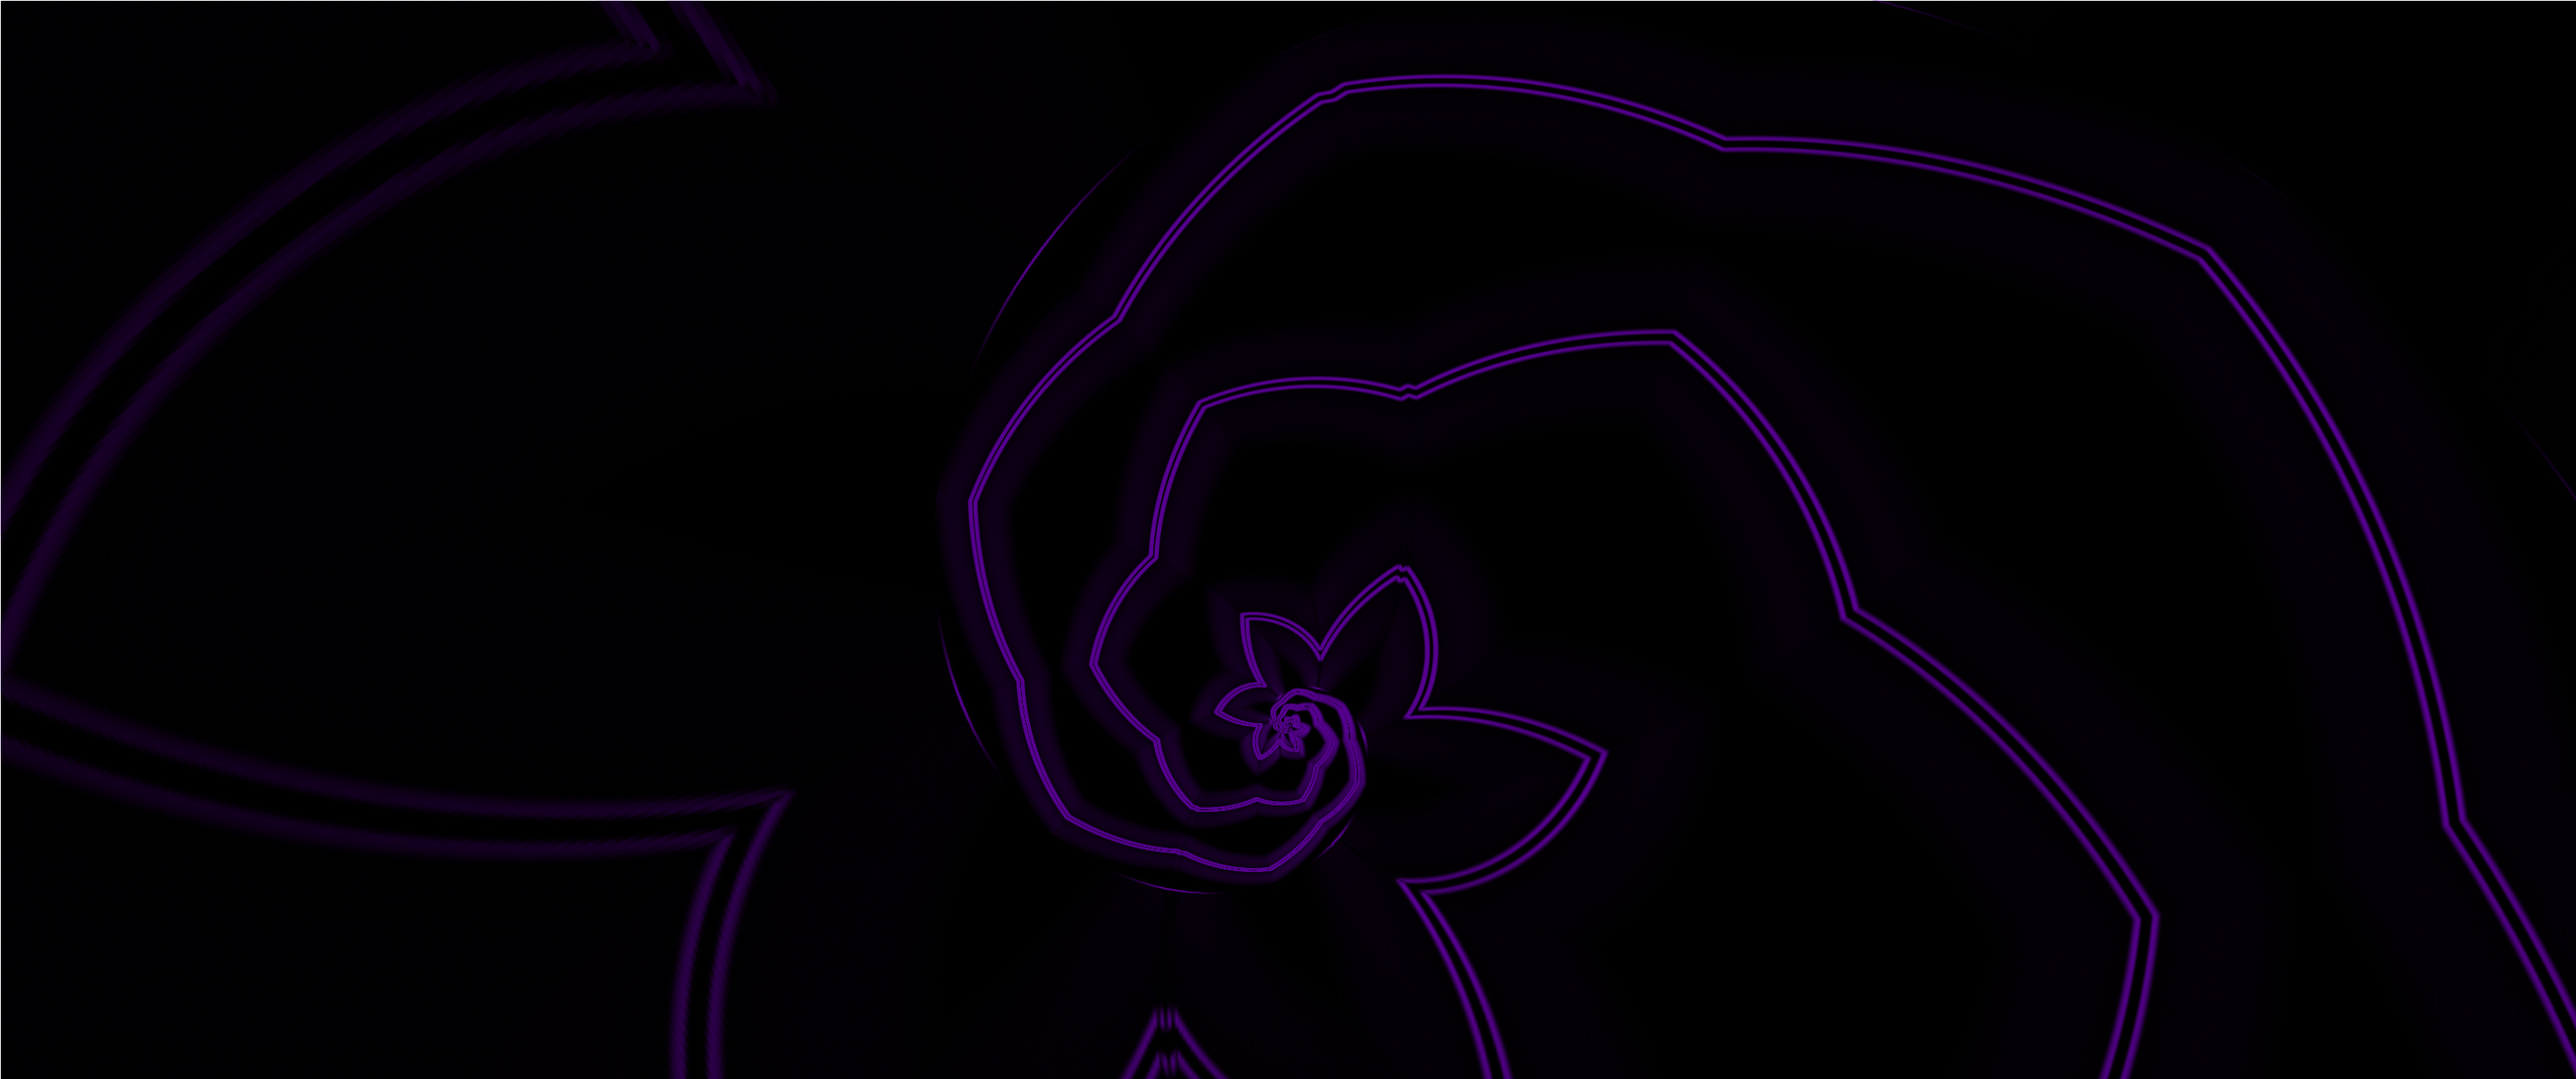
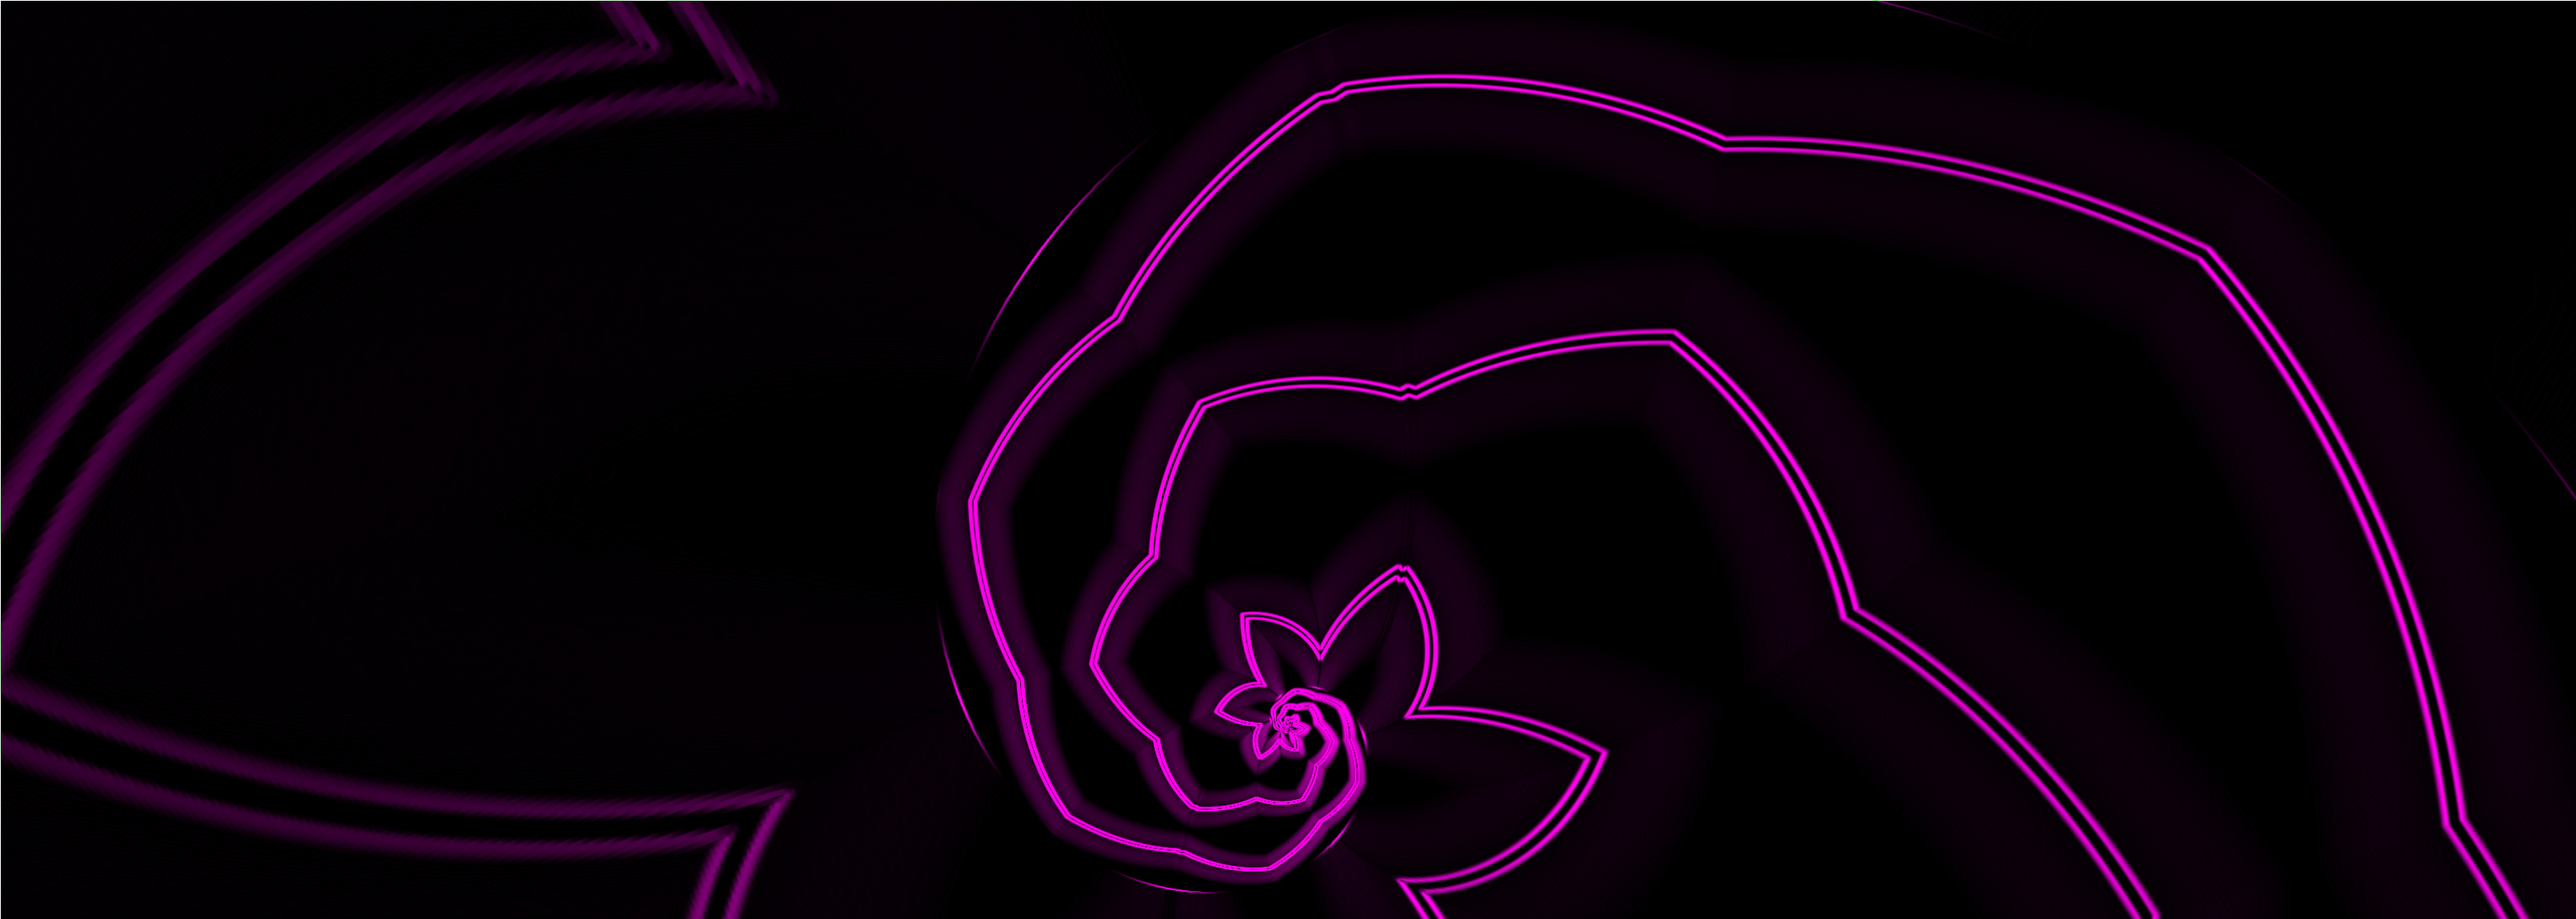
Add a picture to the blog, change some styling

Changed region(s): [[0.3404, 0.0613, 1.0, 1.0], [0.0, 0.0, 0.3095, 1.0]]

diff --git a/nest/templates/article.html b/nest/templates/article.html
@@ -6,9 +6,9 @@
 
 {% block headerstyle %}
     {% if article.illustration %}
-    <div class="header-container" style="background: linear-gradient(rgba(0, 0, 0, 0.2), rgba(0, 0, 0, 0.2)), url('{{ SITEURL }}/images/{{ article.illustration }}'); background-position: center; background-size: cover;">
+    <div class="header-container" style="background: linear-gradient(rgba(0, 0, 0, 0), rgba(0, 0, 0, 0)), url('{{ SITEURL }}/images/{{ article.illustration }}'); background-position: center; background-size: cover;">
     {% elif NEST_HEADER_IMAGES %}
-    <div class="header-container" style="background: linear-gradient(rgba(0, 0, 0, 0.2), rgba(0, 0, 0, 0.2)), url('{{ SITEURL }}/images/{{ NEST_HEADER_IMAGES }}'); background-position: center; background-size: cover;">
+    <div class="header-container" style="background: linear-gradient(rgba(0, 0, 0, 0), rgba(0, 0, 0, 0)), url('{{ SITEURL }}/images/{{ NEST_HEADER_IMAGES }}'); background-position: center; background-size: cover;">
     {% else %}
     <div class="header-container gradient">
     {% endif %}

diff --git a/nest/templates/page.html b/nest/templates/page.html
@@ -5,9 +5,9 @@
 
 {% block headerstyle %}
     {% if page.illustration %}
-    <div class="header-container" style="background: linear-gradient(rgba(0, 0, 0, 0.2), rgba(0, 0, 0, 0.2)), url('{{ SITEURL }}/images/{{ page.illustration }}'); background-position: center; background-size: cover; ">
+    <div class="header-container" style="background: linear-gradient(rgba(0, 0, 0, 0), rgba(0, 0, 0, 0)), url('{{ SITEURL }}/images/{{ page.illustration }}'); background-position: center; background-size: cover; ">
     {% elif NEST_HEADER_IMAGES %}
-    <div class="header-container" style="background: linear-gradient(rgba(0, 0, 0, 0.2), rgba(0, 0, 0, 0.2)), url('{{ SITEURL }}/images/{{ NEST_HEADER_IMAGES }}'); background-position: center; background-size: cover;">
+    <div class="header-container" style="background: linear-gradient(rgba(0, 0, 0, 0), rgba(0, 0, 0, 0)), url('{{ SITEURL }}/images/{{ NEST_HEADER_IMAGES }}'); background-position: center; background-size: cover;">
     {% else %}
     <div class="header-container gradient">
     {% endif %}

diff --git a/nest/static/css/nest.css b/nest/static/css/nest.css
@@ -37,13 +37,13 @@ body {
 /* 009bff*/
 /* CE2323 */
 a, a:visited { 
-    color: #90f;
+    color: #9864cc;
     text-decoration: none; 
     transition: all 0.2s ease-out;
 }
 a:hover, a:active{ 
     text-decoration:underline; 
-    color:#90f; 
+    color:#9864cc; 
 /*    opacity: 0.8; */
 }
 
@@ -190,12 +190,13 @@ h4:after {
     margin-left:20px;
     text-transform: uppercase;
     transition: all 0.2s ease-out;
+    border: 1px solid transparent;
 }
 .header-nav .nav a:hover{
     color:#fff;
     font-weight:600;
     opacity: 1;
-    background-color: rgba(0,0,0,0.2);
+    border: 1px solid #fff;
 }
 .header-nav .nav .active{
     /*color:#fff;*/
@@ -214,6 +215,10 @@ h4:after {
 }
 .header-logo img {
     height: 70px;
+}
+
+.nav a, .header-content {
+    background: #000d;
 }
 
 /* Header */

diff --git a/nest/templates/archives.html b/nest/templates/archives.html
@@ -5,7 +5,7 @@
 
 {% block headerstyle %}
     {% if NEST_HEADER_IMAGES %}
-    <div class="header-container" style="background: linear-gradient(rgba(0, 0, 0, 0.2), rgba(0, 0, 0, 0.2)), url('{{ SITEURL }}/images/{{ NEST_HEADER_IMAGES }}'); background-position: center; background-size: cover;">
+    <div class="header-container" style="background: linear-gradient(rgba(0, 0, 0, 0), rgba(0, 0, 0, 0)), url('{{ SITEURL }}/images/{{ NEST_HEADER_IMAGES }}'); background-position: center; background-size: cover;">
     {% else %}
     <div class="header-container gradient">
     {% endif %}

diff --git a/nest/templates/author.html b/nest/templates/author.html
@@ -5,7 +5,7 @@
 
 {% block headerstyle %}
     {% if NEST_HEADER_IMAGES %}
-    <div class="header-container" style="background: linear-gradient(rgba(0, 0, 0, 0.2), rgba(0, 0, 0, 0.2)), url('{{ SITEURL }}/images/{{ NEST_HEADER_IMAGES }}'); background-position: center; background-size: cover;">
+    <div class="header-container" style="background: linear-gradient(rgba(0, 0, 0, 0), rgba(0, 0, 0, 0)), url('{{ SITEURL }}/images/{{ NEST_HEADER_IMAGES }}'); background-position: center; background-size: cover;">
     {% else %}
     <div class="header-container gradient">
     {% endif %}

diff --git a/nest/templates/authors.html b/nest/templates/authors.html
@@ -5,7 +5,7 @@
 
 {% block headerstyle %}
     {% if NEST_HEADER_IMAGES %}
-    <div class="header-container" style="background: linear-gradient(rgba(0, 0, 0, 0.2), rgba(0, 0, 0, 0.2)), url('{{ SITEURL }}/images/{{ NEST_HEADER_IMAGES }}'); background-position: center; background-size: cover;">
+    <div class="header-container" style="background: linear-gradient(rgba(0, 0, 0, 0), rgba(0, 0, 0, 0)), url('{{ SITEURL }}/images/{{ NEST_HEADER_IMAGES }}'); background-position: center; background-size: cover;">
     {% else %}
     <div class="header-container gradient">
     {% endif %}

diff --git a/nest/templates/categories.html b/nest/templates/categories.html
@@ -5,7 +5,7 @@
 
 {% block headerstyle %}
     {% if NEST_HEADER_IMAGES %}
-    <div class="header-container" style="background: linear-gradient(rgba(0, 0, 0, 0.2), rgba(0, 0, 0, 0.2)), url('{{ SITEURL }}/images/{{ NEST_HEADER_IMAGES }}'); background-position: center; background-size: cover;">
+    <div class="header-container" style="background: linear-gradient(rgba(0, 0, 0, 0), rgba(0, 0, 0, 0)), url('{{ SITEURL }}/images/{{ NEST_HEADER_IMAGES }}'); background-position: center; background-size: cover;">
     {% else %}
     <div class="header-container gradient">
     {% endif %}

diff --git a/nest/templates/category.html b/nest/templates/category.html
@@ -5,7 +5,7 @@
 
 {% block headerstyle %}
     {% if NEST_HEADER_IMAGES %}
-    <div class="header-container" style="background: linear-gradient(rgba(0, 0, 0, 0.2), rgba(0, 0, 0, 0.2)), url('{{ SITEURL }}/images/{{ NEST_HEADER_IMAGES }}'); background-position: center; background-size: cover;">
+    <div class="header-container" style="background: linear-gradient(rgba(0, 0, 0, 0), rgba(0, 0, 0, 0)), url('{{ SITEURL }}/images/{{ NEST_HEADER_IMAGES }}'); background-position: center; background-size: cover;">
     {% else %}
     <div class="header-container gradient">
     {% endif %}

diff --git a/nest/templates/index.html b/nest/templates/index.html
@@ -5,7 +5,7 @@
 
 {% block headerstyle %}
     {% if NEST_HEADER_IMAGES %}
-    <div class="header-container" style="background: linear-gradient(rgba(0, 0, 0, 0.2), rgba(0, 0, 0, 0.2)), url('{{ SITEURL }}/images/{{ NEST_HEADER_IMAGES }}'); background-position: center; background-size: cover;">
+    <div class="header-container" style="background: linear-gradient(rgba(0, 0, 0, 0), rgba(0, 0, 0, 0)), url('{{ SITEURL }}/images/{{ NEST_HEADER_IMAGES }}'); background-position: center; background-size: cover;">
     {% else %}
     <div class="header-container gradient">
     {% endif %}

diff --git a/nest/templates/period_archives.html b/nest/templates/period_archives.html
@@ -5,7 +5,7 @@
 
 {% block headerstyle %}
     {% if NEST_HEADER_IMAGES %}
-    <div class="header-container" style="background: linear-gradient(rgba(0, 0, 0, 0.2), rgba(0, 0, 0, 0.2)), url('{{ SITEURL }}/images/{{ NEST_HEADER_IMAGES }}'); background-position: center; background-size: cover;">
+    <div class="header-container" style="background: linear-gradient(rgba(0, 0, 0, 0), rgba(0, 0, 0, 0)), url('{{ SITEURL }}/images/{{ NEST_HEADER_IMAGES }}'); background-position: center; background-size: cover;">
     {% else %}
     <div class="header-container gradient">
     {% endif %}

diff --git a/nest/templates/tag.html b/nest/templates/tag.html
@@ -5,7 +5,7 @@
 
 {% block headerstyle %}
     {% if NEST_HEADER_IMAGES %}
-    <div class="header-container" style="background: linear-gradient(rgba(0, 0, 0, 0.2), rgba(0, 0, 0, 0.2)), url('{{ SITEURL }}/images/{{ NEST_HEADER_IMAGES }}'); background-position: center; background-size: cover;">
+    <div class="header-container" style="background: linear-gradient(rgba(0, 0, 0, 0), rgba(0, 0, 0, 0)), url('{{ SITEURL }}/images/{{ NEST_HEADER_IMAGES }}'); background-position: center; background-size: cover;">
     {% else %}
     <div class="header-container gradient">
     {% endif %}

diff --git a/nest/templates/tags.html b/nest/templates/tags.html
@@ -5,7 +5,7 @@
 
 {% block headerstyle %}
     {% if NEST_HEADER_IMAGES %}
-    <div class="header-container" style="background: linear-gradient(rgba(0, 0, 0, 0.2), rgba(0, 0, 0, 0.2)), url('{{ SITEURL }}/images/{{ NEST_HEADER_IMAGES }}'); background-position: center; background-size: cover;">
+    <div class="header-container" style="background: linear-gradient(rgba(0, 0, 0, 0), rgba(0, 0, 0, 0)), url('{{ SITEURL }}/images/{{ NEST_HEADER_IMAGES }}'); background-position: center; background-size: cover;">
     {% else %}
     <div class="header-container gradient">
     {% endif %}
